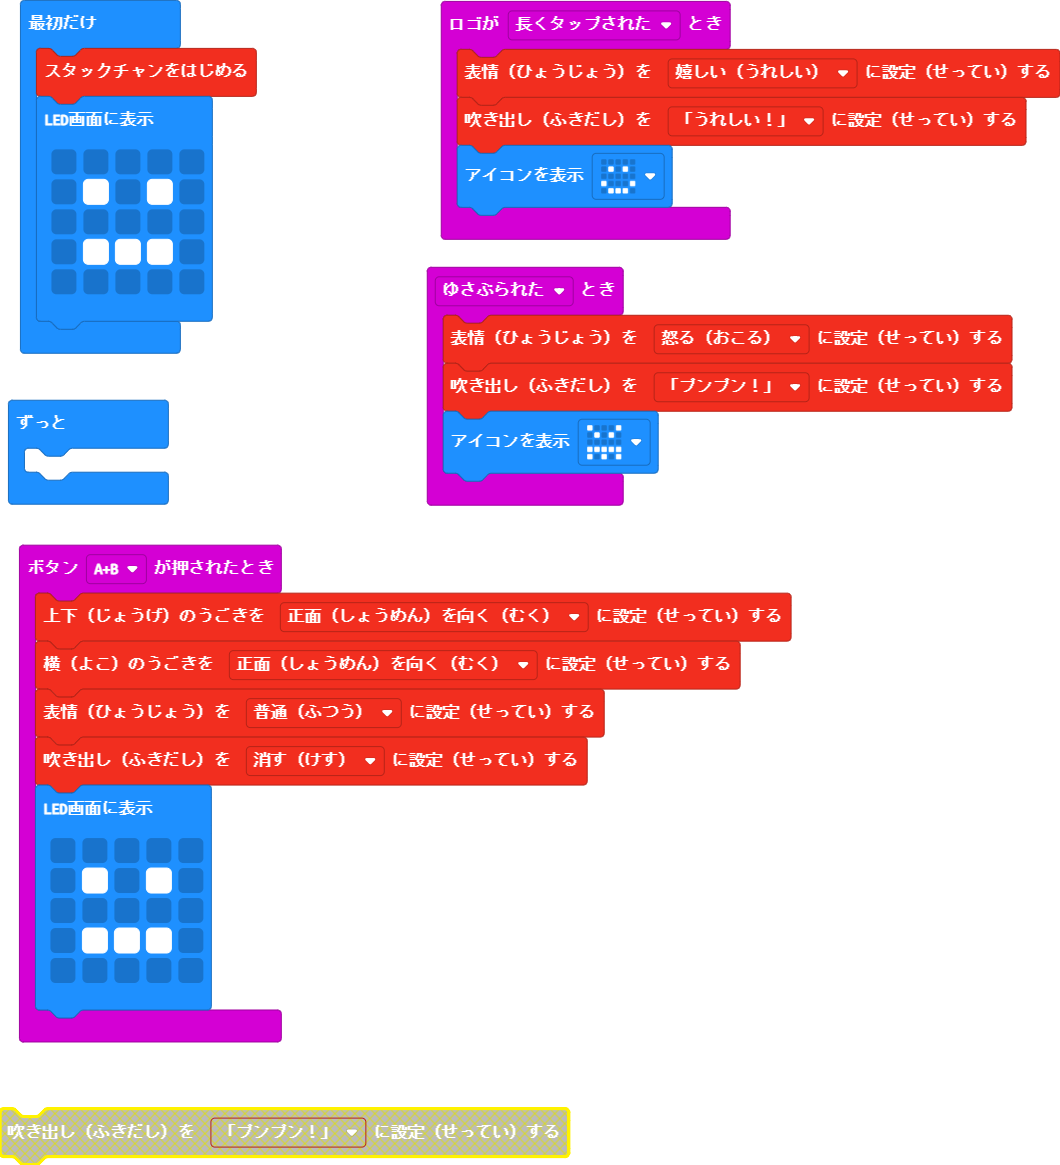
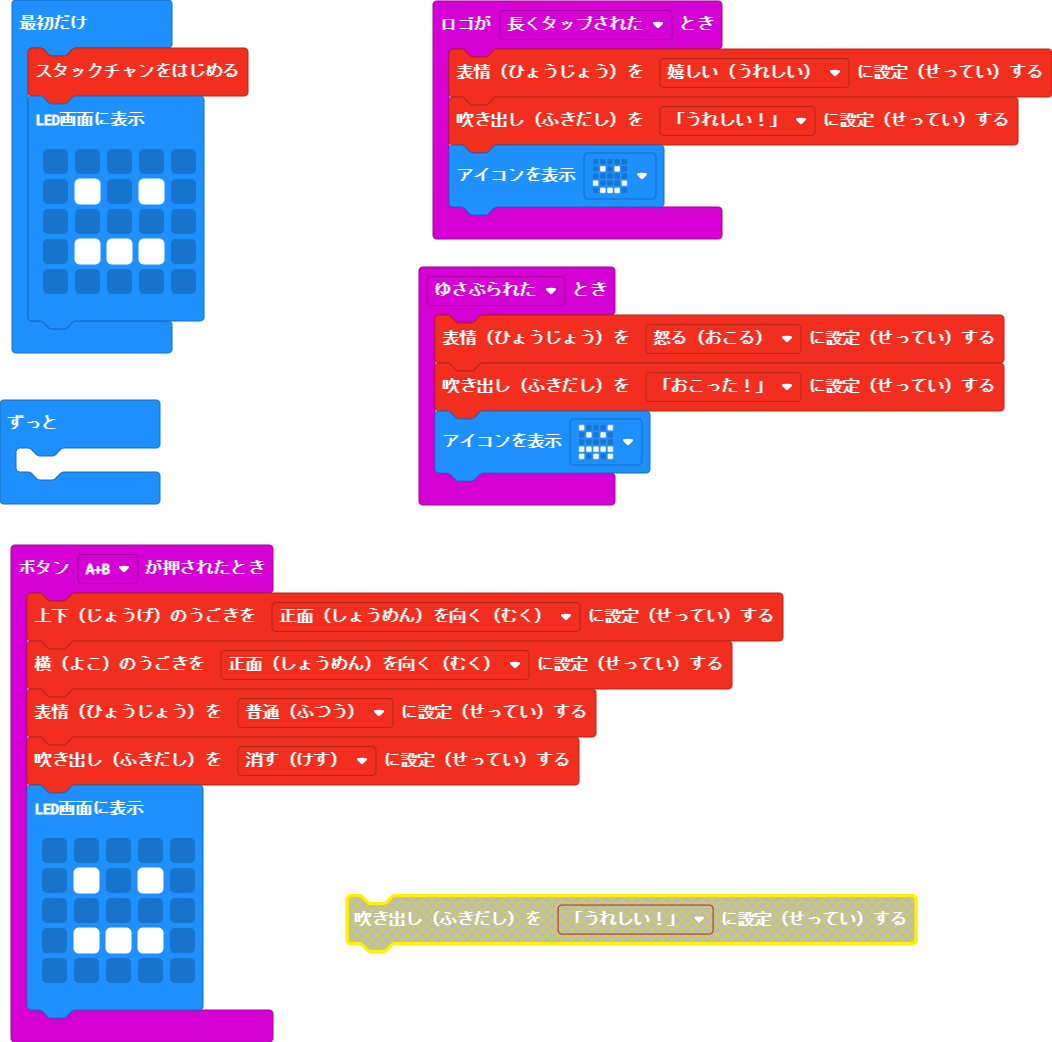
送信文字列を変更

diff --git a/custom.ts b/custom.ts
@@ -54,13 +54,13 @@ enum CustomTextAction {
     SayGoodMorning = 2,
     //% block="「おやすみなさい」"
     SayGoodNight = 3,
-    //% block="「おこった！」"
+    //% block="「おこった」"
     SayAngry = 4,
-    //% block="「うれしい！」"
+    //% block="「うれしい」"
     SayHappy = 5,
-    //% block="「かなしい…」"
+    //% block="「かなしい」"
     SaySat = 6,
-    //% block="「うーん…」"
+    //% block="「うーん」"
     SayDoubt = 7
 }
 /**
@@ -149,25 +149,25 @@ namespace custom {
         let strValue = "";
         switch(value) {
             case CustomTextAction.SayHello:
-                strValue = "こんにちは！";
+                strValue = "こんにちは";
                 break;
             case CustomTextAction.SayGoodMorning:
-                strValue = "おはよう！";
+                strValue = "おはよう";
                 break;
             case CustomTextAction.SayGoodNight:
-                strValue = "おやすみなさいzzz";
+                strValue = "おやすみなさい";
                 break;
             case CustomTextAction.SayAngry:
-                strValue = "おこった！";
+                strValue = "おこった";
                 break;
             case CustomTextAction.SayHappy:
-                strValue = "うれしい！";
+                strValue = "うれしい";
                 break;
             case CustomTextAction.SaySat:
-                strValue = "かなしい...";
+                strValue = "かなしい";
                 break;
             case CustomTextAction.SayDoubt:
-                strValue = "うーん...";
+                strValue = "うーん";
                 break;
             case CustomTextAction.Off:
             default:
